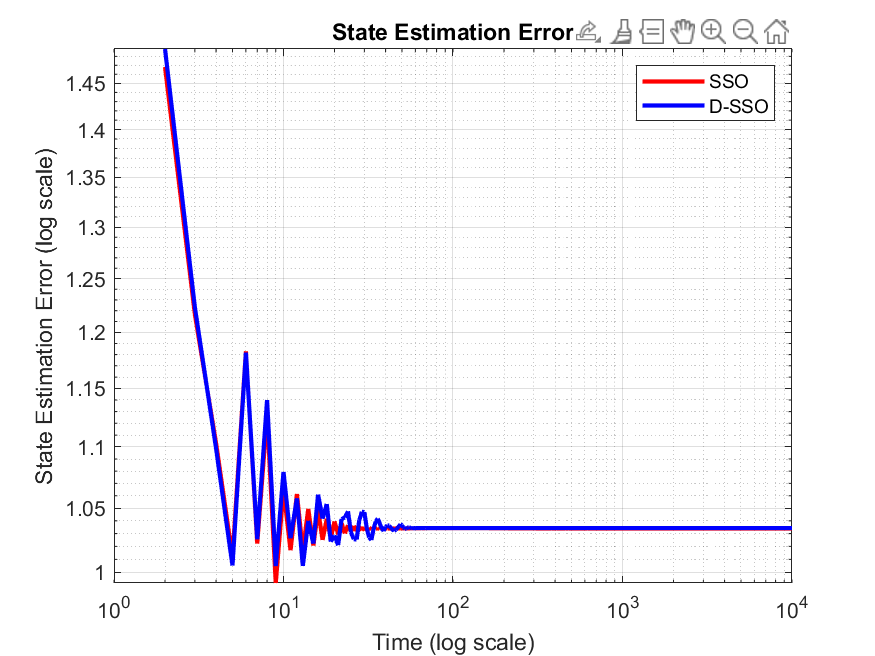
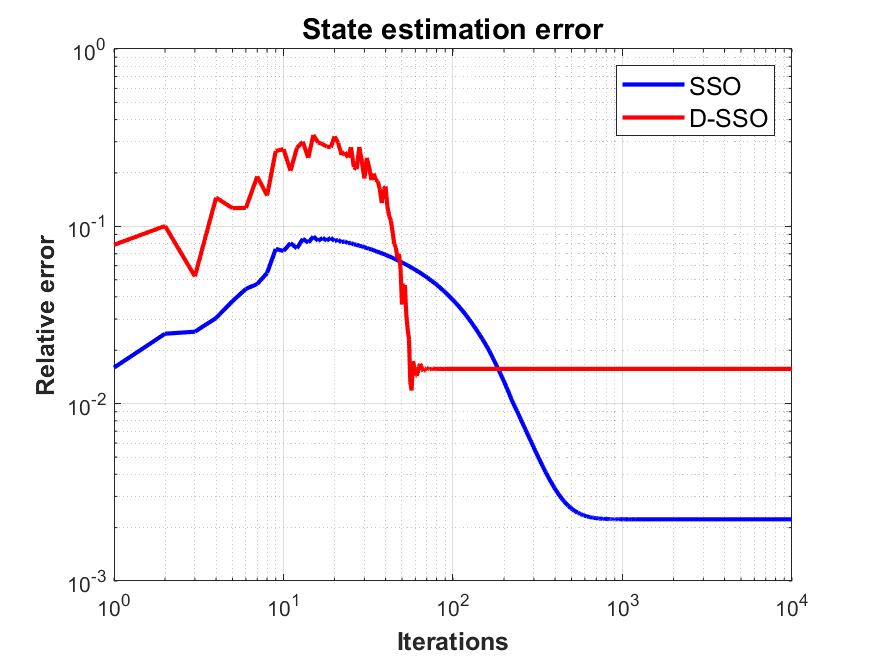
Task3

diff --git a/Task3/task3.m b/Task3/task3.m
@@ -20,82 +20,86 @@ nu_DSSO = 0.7; % Given in problem statement
 
 % Simulation parameters
 Tmax = 10000;           
-x_hat_SSO = zeros(n, Tmax);
-a_hat_SSO = zeros(q, Tmax);
-x_SSO = zeros(n, Tmax);
-x_hat_DSSO = zeros(n, Tmax);
-a_hat_DSSO = zeros(q, Tmax);
-x_DSSO = zeros(n, Tmax);
+x_hat_SSO = x0;
+a_hat_SSO = zeros(q, 1);  % CORRETTO: inizializzare come vettore
+x_SSO = x0;
+x_hat_DSSO = x0;
+a_hat_DSSO = zeros(q, 1); % CORRETTO: inizializzare come vettore
+x_DSSO = x0;
 
-% Initialize state
-x_hat_SSO(:,1) = x0;
-x_hat_DSSO(:,1) = x0;
-x_SSO(:,1) = x0;
-x_DSSO(:,1) = x0;
+% Preallocazione vettori di errore
+state_error_SSO = zeros(1, Tmax);
+state_error_DSSO = zeros(1, Tmax);
+attack_error_SSO = zeros(1, Tmax);
+attack_error_DSSO = zeros(1, Tmax);
 
 % Compute observer gain L for D-SSO (A-LC should be stable)
 eig_target = 0.5 * ones(n,1); % Desired eigenvalues for stability
 L = place(A', C', eig_target)';
 
 % Iterate over time
-for k = 1:Tmax-1
+for k = 1:Tmax
 
     % Osservazioni reali per entrambi i metodi
-    y_SSO = C * x_SSO(:, k) + a;
-    y_DSSO = C * x_DSSO(:, k) + a;
+    y_SSO = C * x_SSO + a;
+    y_DSSO = C * x_DSSO + a;
 
     % Predictions
-    y_hat_SSO = C * x_hat_SSO(:, k) + a_hat_SSO(:, k);
-    y_hat_DSSO = C * x_hat_DSSO(:, k) + a_hat_DSSO(:, k);
+    y_hat_SSO = C * x_hat_SSO + a_hat_SSO;
+    y_hat_DSSO = C * x_hat_DSSO + a_hat_DSSO;
     
     % SSO update
-    x_hat_SSO(:, k+1) = A * x_hat_SSO(:, k) - nu_SSO * A * C' * (y_hat_SSO - y_SSO);
-    a_hat_SSO(:, k+1) = soft_threshold(a_hat_SSO(:, k) - nu_SSO * (y_hat_SSO - y_SSO), nu_SSO * lambda);
-    x_SSO(:, k+1) = A * x_SSO(:, k);
+    x_hat_SSO = A * x_hat_SSO - nu_SSO * A * C' * (y_hat_SSO - y_SSO);
+    a_hat_SSO = soft_threshold(a_hat_SSO - nu_SSO * (y_hat_SSO - y_SSO), nu_SSO * lambda);
+    x_SSO = A * x_SSO;
 
     % D-SSO update
-    x_hat_DSSO(:, k+1) = A * x_hat_DSSO(:, k) - L * (y_hat_DSSO - y_DSSO);
-    a_hat_DSSO(:, k+1) = soft_threshold(a_hat_DSSO(:, k) - nu_DSSO * (y_hat_DSSO - y_DSSO), nu_DSSO * lambda);
-    x_DSSO(:, k+1) = A * x_DSSO(:, k);
+    x_hat_DSSO = A * x_hat_DSSO - L * (y_hat_DSSO - y_DSSO);
+    a_hat_DSSO = soft_threshold(a_hat_DSSO - nu_DSSO * (y_hat_DSSO - y_DSSO), nu_DSSO * lambda);
+    x_DSSO = A * x_DSSO;
 
+    % CORRETTO: Ora x_hat viene confrontato con x_SSO e x_DSSO (non x0!)
+    state_error_SSO(k) = norm(x_hat_SSO - x_SSO, 2) / norm(x_SSO, 2);
+    state_error_DSSO(k) = norm(x_hat_DSSO - x_DSSO, 2) / norm(x_DSSO, 2);
+
+    % CORRETTO: confronto tra a e a_hat per errore di supporto
+    attack_error_SSO(k) = sum(xor(a ~= 0, a_hat_SSO ~= 0));
+    attack_error_DSSO(k) = sum(xor(a ~= 0, a_hat_DSSO ~= 0));
 end
 
-% Compute metrics
-state_error_SSO = vecnorm(x_hat_SSO - x0, 2, 1) ./ vecnorm(x0, 2, 1);
-state_error_DSSO = vecnorm(x_hat_DSSO - x0, 2, 1) ./ vecnorm(x0, 2, 1);
-attack_error_SSO = sum(abs((a ~= 0) - (a_hat_SSO ~= 0)), 1);
-attack_error_DSSO = sum(abs((a ~= 0) - (a_hat_DSSO ~= 0)), 1);
- 
-%Compute mean errors across iterations
-state_error_SSO_mean = mean(state_error_SSO, 'omitnan');
-state_error_DSSO_mean = mean(state_error_DSSO, 'omitnan');
-attack_error_SSO_mean = mean(attack_error_SSO, 'omitnan');
-attack_error_DSSO_mean = mean(attack_error_DSSO, 'omitnan');
+% Evita log(0) sostituendo gli zeri con eps
+state_error_SSO(state_error_SSO == 0) = eps;
+state_error_DSSO(state_error_DSSO == 0) = eps;
+attack_error_SSO(attack_error_SSO == 0) = eps;
+attack_error_DSSO(attack_error_DSSO == 0) = eps;
 
-% Plot State Estimation Error on log-log scale
+% --- PLOT State Estimation Error ---
 figure;
-loglog(1:Tmax, state_error_SSO, 'r', 'LineWidth', 2); hold on;
-loglog(1:Tmax, state_error_DSSO, 'b', 'LineWidth', 2);
-xlabel('Time (log scale)');
-ylabel('State Estimation Error (log scale)');
-title('State Estimation Error');
-legend('SSO', 'D-SSO');
+loglog(1:Tmax, state_error_SSO, 'b', 'LineWidth', 2); hold on;
+loglog(1:Tmax, state_error_DSSO, 'r', 'LineWidth', 2);
+set(gca, 'XScale', 'log', 'YScale', 'log'); % Scala logaritmica su entrambi gli assi
+xlabel('Iterations', 'FontSize', 12, 'FontWeight', 'bold');
+ylabel('Relative error', 'FontSize', 12, 'FontWeight', 'bold');
+title('State estimation error', 'FontSize', 14, 'FontWeight', 'bold');
 grid on;
+legend({'SSO', 'D-SSO'}, 'FontSize', 12, 'Location', 'northeast');
 saveas(gcf, 'StateError.png');
 
-% Plot Attack Support Error on log-log scale
+% --- PLOT Attack Support Error ---
 figure;
-loglog(1:Tmax, attack_error_SSO, 'r', 'LineWidth', 2); hold on;
-loglog(1:Tmax, attack_error_DSSO, 'b', 'LineWidth', 2);
-xlabel('Time (log scale)');
-ylabel('Support Attack Error (log scale)');
-title('Attack Support Error');
-legend('SSO', 'D-SSO');
+loglog(1:Tmax, attack_error_SSO, 'b', 'LineWidth', 2); hold on;
+loglog(1:Tmax, attack_error_DSSO, 'r', 'LineWidth', 2);
+set(gca, 'XScale', 'log', 'YScale', 'linear'); % Log solo su X, lineare su Y ✅
+xlabel('Iterations', 'FontSize', 12, 'FontWeight', 'bold');
+ylabel('Support Attack Error', 'FontSize', 12, 'FontWeight', 'bold');
+title('Attack Support Error', 'FontSize', 14, 'FontWeight', 'bold');
 grid on;
+legend({'SSO', 'D-SSO'}, 'FontSize', 12, 'Location', 'northeast');
 saveas(gcf, 'SupportError.png');
 
 disp('Simulation complete. Results plotted.');
 
+% Funzione di soglia soft
 function s = soft_threshold(v, threshold)
     s = sign(v) .* max(abs(v) - threshold, 0);
 end
